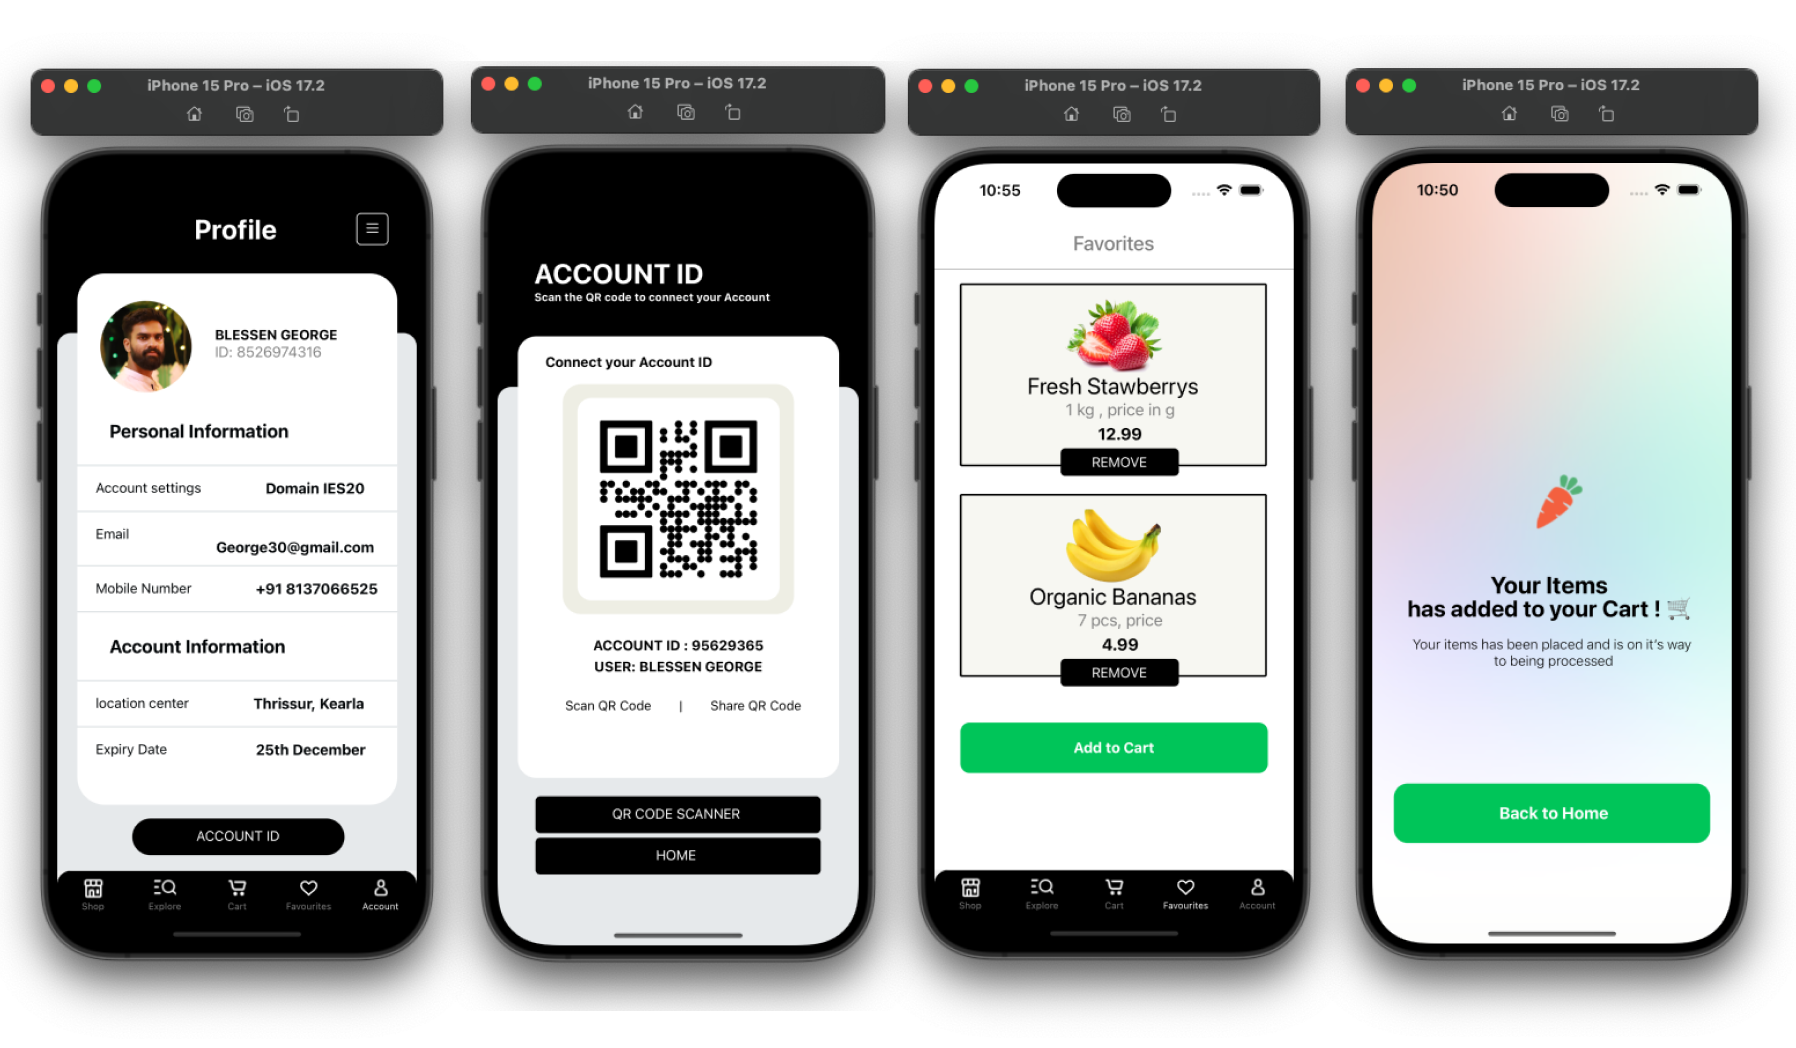
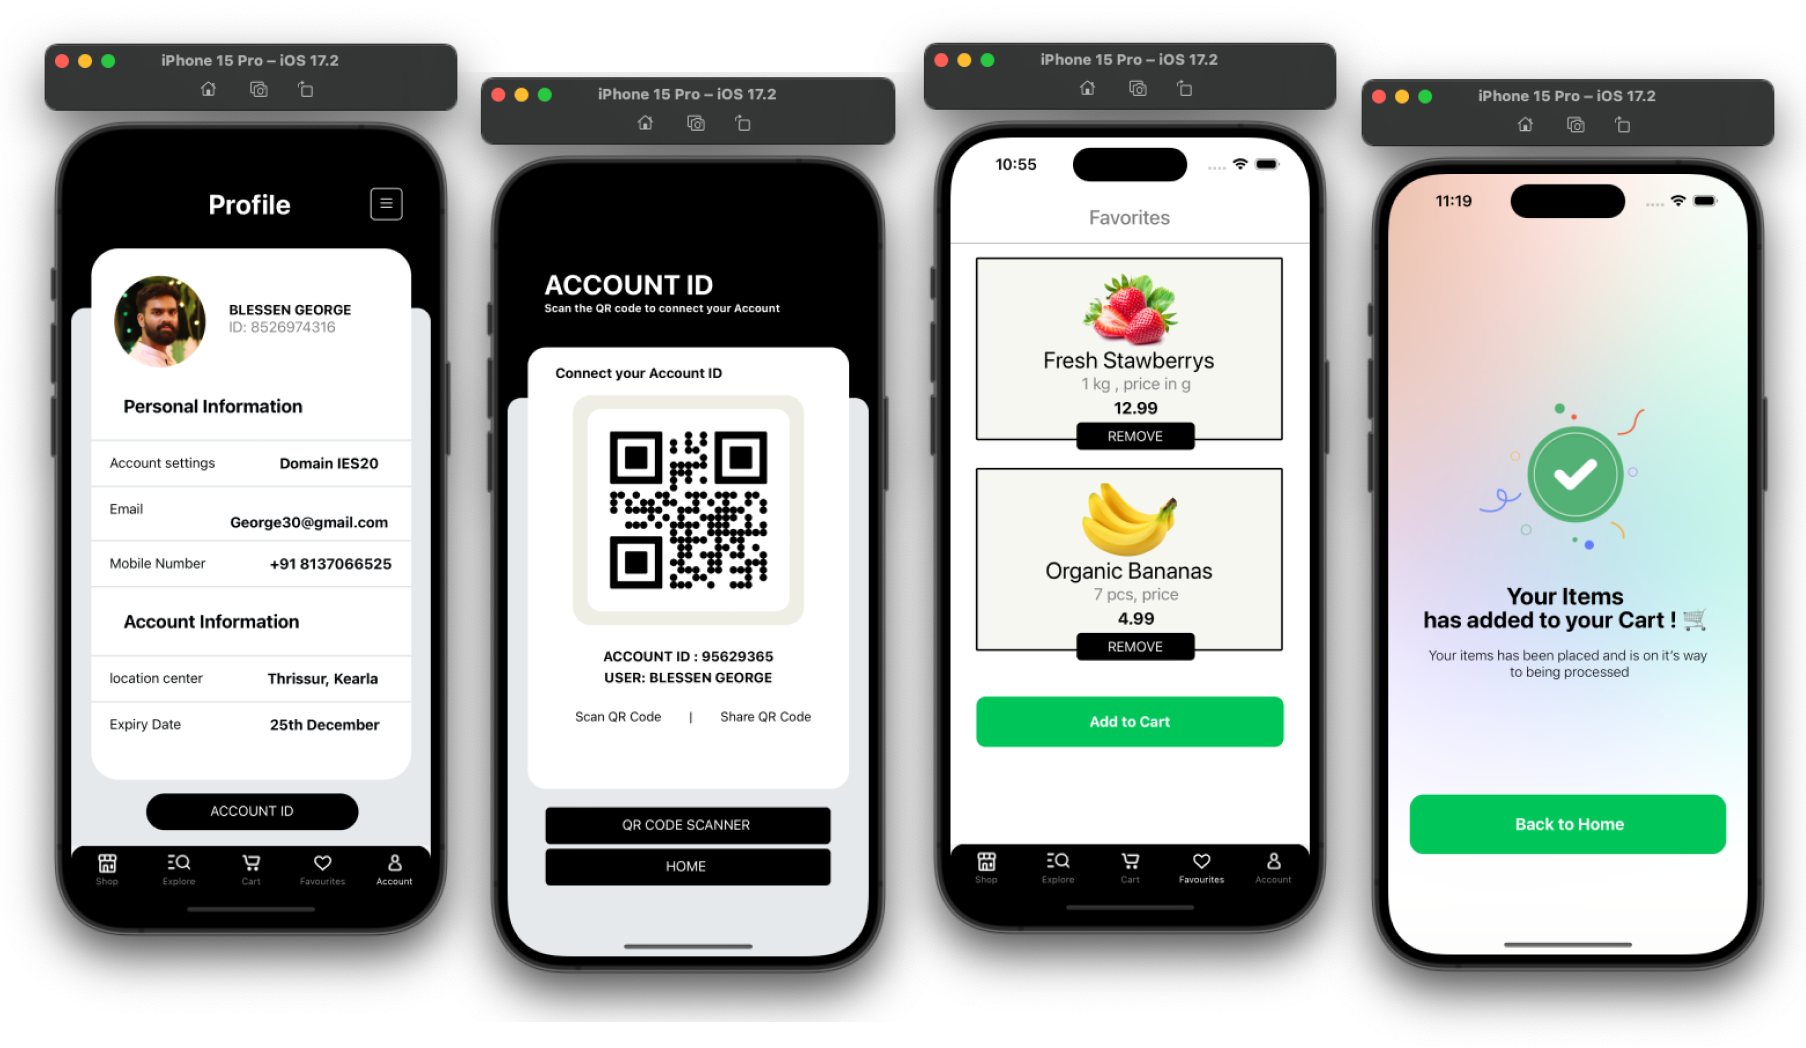
updated

diff --git a/screens/CartAdded.js b/screens/CartAdded.js
@@ -29,9 +29,9 @@ const Onboard = () => {
         <View style={styles.container}>
             <ImageBackground blurRadius={8} source={require('../assets/blurbg.jpeg')}
                 style={styles.backgroundImage}>
-                    <View style={{marginTop:340,marginBottom:25,marginHorizontal:180}}>
-                        <Image source={require('../assets/originallogo.png')} style={{ height:60, width: 50}} />
-                    </View>
+                <View style={{marginTop:250,marginBottom:15,marginHorizontal:100}}>
+                    <Image source={require('../assets/success.png')} style={{ height:160, width: 180}} />
+                </View>
 
                 <View style={{ marginTop: 20, alignItems: 'center', alignSelf: 'center' }}>
                     <View >
